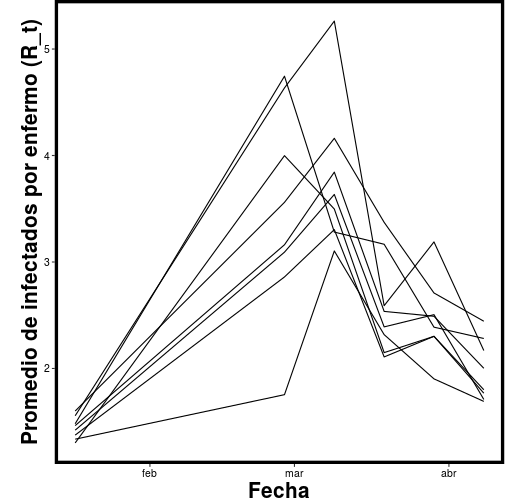
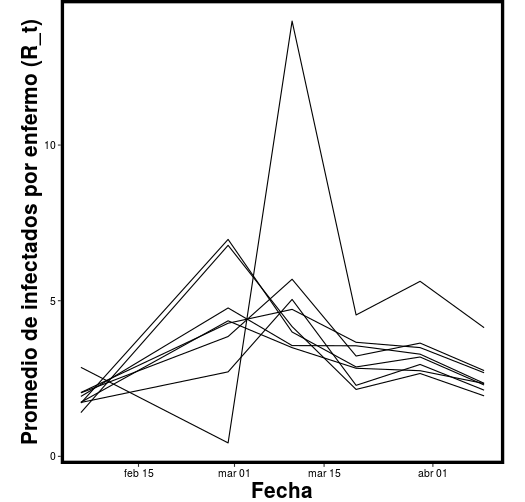
Actualización 2020-05-03 Centinela

diff --git a/etiquetas/casos/index.html b/etiquetas/casos/index.html
@@ -421,9 +421,9 @@
           <div class="col-12 col-md-6 my-auto my-auto">
             <h3>¿Cuántos casos hay en México? (Centinela)</h3>
             <p class="lead">
-              <p>El sistema Centinela es similar a una encuesta y permite estimar el número de casos reales del COVID-19 aún sin diagnosticar a todos los contagiados. Desafortunadamente, sólo tenemos estimados oficiales hasta <a href="https://youtu.be/So48LCI6tSY?t=1349" target="_blank"> la semana epidemiológica 14 (3 de abril)</a>. Como la epidemia sigue creciendo, el número de casos actual debe ser mayor.</p>
+              <p>El número real de casos de COVID-19 es un parámetro esencial para determinar el riesgo de contagio de cada persona. El sistema Centinela es similar a una encuesta y permite estimar el número de casos reales aún sin diagnosticar a todos los contagiados. Desafortunadamente, sólo tenemos estimados oficiales hasta <a href="https://youtu.be/c-_kVkBFipw?t=3052" target="_blank"> la semana epidemiológica 15 (10 de abril)</a>. Como la epidemia sigue creciendo, el número de casos actual debe ser mayor.</p>
 <p>La Secretaría de Salud (SSA) no publica todos los elementos necesarios para reproducir sus estimados, así que hago algunas simplificaciones y llego a un resultado similar. Esto nos permite producir estimados en fechas más recientes.</p>
-<p>Finalmente, podemos combinar los números del sistema Centinela con un <a href="../../casos#sir">modelo SEIR</a> para corregir por el retraso en la detección de casos y estimar el número de real casos el día de hoy. Como los números de la SSA son más antiguos, no podemos proyectar el número de casos hasta el día de hoy. Todos los valores en esta gráfica se calculan <a href="https://github.com/coronamex/visualizando/blob/master/casos/centinela_preliminar.r" target="_blank">con este código</a>, y los valores numéricos se pueden <a href="https://raw.githubusercontent.com/coronamex/visualizando/master/estimados/centinela_seir_estimados.csv" target="blank">descargar</a>.</p>
+<p>Finalmente, podemos combinar los números del sistema Centinela con un <a href="../../casos#sir">modelo SEIR</a> para corregir por el retraso en la detección de casos y estimar el número de real casos el día de hoy. Como los números de la SSA son más antiguos, las proyecciones basados en estos números son menos confiables. Todos los valores en esta gráfica se calculan <a href="https://github.com/coronamex/visualizando/blob/master/casos/centinela_preliminar.r" target="_blank">con este código</a>, y los valores numéricos se pueden <a href="https://raw.githubusercontent.com/coronamex/visualizando/master/estimados/centinela_seir_estimados.csv" target="blank">descargar</a>.</p>
 <p>Esta gráfica se actualiza unas horas después que el resto del sitio.</p>
             </p>
               
@@ -495,7 +495,7 @@
           <div class="col-12 col-md-6 my-auto my-auto">
             <h3>Cada zona metropolitana tiene su propia epidemia</h3>
             <p class="lead">
-              <p>Debido a su densidad poblacional y conexiones internas, las <a href="https://www.inegi.org.mx/app/biblioteca/ficha.html?upc=702825006792" target="_blank">zonas metropolitanas</a> son las regiones donde el COVID-19 puede avanzar con mayor facilidad, y cada una de estas regiones tiene una epidemia con características propias.</p> <p>Esta gráfica muestra el número de casos que mostraron síntomas en cada fecha para las nueve zonas metropolitanas más afectadas de México (excluyendo al <a href="../../municipios#vm_casos">Valle de México</a>).</p> <p>Cada zona metropolitana ha seguido su propia trayectoria. En Baja California, tanto Mexicali como Tijuana parecen haber superado el punto más crítico (consistente con la <a href="../../estados#r_efectiva">R efectiva</a>), probablemente Culiacán también ha superado este punto pero es muy pronto para estar seguros. Monterrey y Puebla han mostrado rebrotes importantes, mientras que Cancún, Mérida, Veracruz y Villahermosa siguen en fase de crecimiento.</p>
+              <p>Debido a su densidad poblacional y conexiones internas, las <a href="https://www.inegi.org.mx/app/biblioteca/ficha.html?upc=702825006792" target="_blank">zonas metropolitanas</a> son las regiones donde el COVID-19 puede avanzar con mayor facilidad, y cada una de estas regiones tiene una epidemia con características propias.</p> <p>Esta gráfica muestra el número de casos que mostraron síntomas en cada fecha para las nueve zonas metropolitanas más afectadas de México (excluyendo al <a href="../../municipios#vm_casos">Valle de México</a>).</p> <p>Cada zona metropolitana ha seguido su propia trayectoria. En Baja California, tanto Mexicali como Tijuana parecen haber superado el punto más crítico (consistente con la <a href="../../estados#r_efectiva">R efectiva</a>). En Culiacán el número de nuevos casos parece estabilizarse sin descender. Monterrey y Puebla han mostrado rebrotes importantes, mientras que Cancún, Mérida, Veracruz y Villahermosa siguen en fase de crecimiento.</p>
             </p>
               
           </div>

diff --git a/secciones/casos/index.html b/secciones/casos/index.html
@@ -375,9 +375,9 @@
           <div class="col-12 col-md-6 my-auto my-auto">
             <h3>¿Cuántos casos hay en México? (Centinela)</h3>
             <p class="lead">
-              <p>El sistema Centinela es similar a una encuesta y permite estimar el número de casos reales del COVID-19 aún sin diagnosticar a todos los contagiados. Desafortunadamente, sólo tenemos estimados oficiales hasta <a href="https://youtu.be/So48LCI6tSY?t=1349" target="_blank"> la semana epidemiológica 14 (3 de abril)</a>. Como la epidemia sigue creciendo, el número de casos actual debe ser mayor.</p>
+              <p>El número real de casos de COVID-19 es un parámetro esencial para determinar el riesgo de contagio de cada persona. El sistema Centinela es similar a una encuesta y permite estimar el número de casos reales aún sin diagnosticar a todos los contagiados. Desafortunadamente, sólo tenemos estimados oficiales hasta <a href="https://youtu.be/c-_kVkBFipw?t=3052" target="_blank"> la semana epidemiológica 15 (10 de abril)</a>. Como la epidemia sigue creciendo, el número de casos actual debe ser mayor.</p>
 <p>La Secretaría de Salud (SSA) no publica todos los elementos necesarios para reproducir sus estimados, así que hago algunas simplificaciones y llego a un resultado similar. Esto nos permite producir estimados en fechas más recientes.</p>
-<p>Finalmente, podemos combinar los números del sistema Centinela con un <a href="../../casos#sir">modelo SEIR</a> para corregir por el retraso en la detección de casos y estimar el número de real casos el día de hoy. Como los números de la SSA son más antiguos, no podemos proyectar el número de casos hasta el día de hoy. Todos los valores en esta gráfica se calculan <a href="https://github.com/coronamex/visualizando/blob/master/casos/centinela_preliminar.r" target="_blank">con este código</a>, y los valores numéricos se pueden <a href="https://raw.githubusercontent.com/coronamex/visualizando/master/estimados/centinela_seir_estimados.csv" target="blank">descargar</a>.</p>
+<p>Finalmente, podemos combinar los números del sistema Centinela con un <a href="../../casos#sir">modelo SEIR</a> para corregir por el retraso en la detección de casos y estimar el número de real casos el día de hoy. Como los números de la SSA son más antiguos, las proyecciones basados en estos números son menos confiables. Todos los valores en esta gráfica se calculan <a href="https://github.com/coronamex/visualizando/blob/master/casos/centinela_preliminar.r" target="_blank">con este código</a>, y los valores numéricos se pueden <a href="https://raw.githubusercontent.com/coronamex/visualizando/master/estimados/centinela_seir_estimados.csv" target="blank">descargar</a>.</p>
 <p>Esta gráfica se actualiza unas horas después que el resto del sitio.</p>
             </p>
               
@@ -426,7 +426,7 @@
           <div class="col-12 col-md-6 my-auto my-auto">
             <h3>Cada zona metropolitana tiene su propia epidemia</h3>
             <p class="lead">
-              <p>Debido a su densidad poblacional y conexiones internas, las <a href="https://www.inegi.org.mx/app/biblioteca/ficha.html?upc=702825006792" target="_blank">zonas metropolitanas</a> son las regiones donde el COVID-19 puede avanzar con mayor facilidad, y cada una de estas regiones tiene una epidemia con características propias.</p> <p>Esta gráfica muestra el número de casos que mostraron síntomas en cada fecha para las nueve zonas metropolitanas más afectadas de México (excluyendo al <a href="../../municipios#vm_casos">Valle de México</a>).</p> <p>Cada zona metropolitana ha seguido su propia trayectoria. En Baja California, tanto Mexicali como Tijuana parecen haber superado el punto más crítico (consistente con la <a href="../../estados#r_efectiva">R efectiva</a>), probablemente Culiacán también ha superado este punto pero es muy pronto para estar seguros. Monterrey y Puebla han mostrado rebrotes importantes, mientras que Cancún, Mérida, Veracruz y Villahermosa siguen en fase de crecimiento.</p>
+              <p>Debido a su densidad poblacional y conexiones internas, las <a href="https://www.inegi.org.mx/app/biblioteca/ficha.html?upc=702825006792" target="_blank">zonas metropolitanas</a> son las regiones donde el COVID-19 puede avanzar con mayor facilidad, y cada una de estas regiones tiene una epidemia con características propias.</p> <p>Esta gráfica muestra el número de casos que mostraron síntomas en cada fecha para las nueve zonas metropolitanas más afectadas de México (excluyendo al <a href="../../municipios#vm_casos">Valle de México</a>).</p> <p>Cada zona metropolitana ha seguido su propia trayectoria. En Baja California, tanto Mexicali como Tijuana parecen haber superado el punto más crítico (consistente con la <a href="../../estados#r_efectiva">R efectiva</a>). En Culiacán el número de nuevos casos parece estabilizarse sin descender. Monterrey y Puebla han mostrado rebrotes importantes, mientras que Cancún, Mérida, Veracruz y Villahermosa siguen en fase de crecimiento.</p>
             </p>
               
           </div>

diff --git a/index.html b/index.html
@@ -406,9 +406,9 @@
           <div class="col-12 col-md-6 my-auto my-auto">
             <h3>¿Cuántos casos hay en México? (Centinela)</h3>
             <p class="lead">
-              <p>El sistema Centinela es similar a una encuesta y permite estimar el número de casos reales del COVID-19 aún sin diagnosticar a todos los contagiados. Desafortunadamente, sólo tenemos estimados oficiales hasta <a href="https://youtu.be/So48LCI6tSY?t=1349" target="_blank"> la semana epidemiológica 14 (3 de abril)</a>. Como la epidemia sigue creciendo, el número de casos actual debe ser mayor.</p>
+              <p>El número real de casos de COVID-19 es un parámetro esencial para determinar el riesgo de contagio de cada persona. El sistema Centinela es similar a una encuesta y permite estimar el número de casos reales aún sin diagnosticar a todos los contagiados. Desafortunadamente, sólo tenemos estimados oficiales hasta <a href="https://youtu.be/c-_kVkBFipw?t=3052" target="_blank"> la semana epidemiológica 15 (10 de abril)</a>. Como la epidemia sigue creciendo, el número de casos actual debe ser mayor.</p>
 <p>La Secretaría de Salud (SSA) no publica todos los elementos necesarios para reproducir sus estimados, así que hago algunas simplificaciones y llego a un resultado similar. Esto nos permite producir estimados en fechas más recientes.</p>
-<p>Finalmente, podemos combinar los números del sistema Centinela con un <a href="./casos#sir">modelo SEIR</a> para corregir por el retraso en la detección de casos y estimar el número de real casos el día de hoy. Como los números de la SSA son más antiguos, no podemos proyectar el número de casos hasta el día de hoy. Todos los valores en esta gráfica se calculan <a href="https://github.com/coronamex/visualizando/blob/master/casos/centinela_preliminar.r" target="_blank">con este código</a>, y los valores numéricos se pueden <a href="https://raw.githubusercontent.com/coronamex/visualizando/master/estimados/centinela_seir_estimados.csv" target="blank">descargar</a>.</p>
+<p>Finalmente, podemos combinar los números del sistema Centinela con un <a href="./casos#sir">modelo SEIR</a> para corregir por el retraso en la detección de casos y estimar el número de real casos el día de hoy. Como los números de la SSA son más antiguos, las proyecciones basados en estos números son menos confiables. Todos los valores en esta gráfica se calculan <a href="https://github.com/coronamex/visualizando/blob/master/casos/centinela_preliminar.r" target="_blank">con este código</a>, y los valores numéricos se pueden <a href="https://raw.githubusercontent.com/coronamex/visualizando/master/estimados/centinela_seir_estimados.csv" target="blank">descargar</a>.</p>
 <p>Esta gráfica se actualiza unas horas después que el resto del sitio.</p>
             </p>
               
@@ -457,7 +457,7 @@
           <div class="col-12 col-md-6 my-auto my-auto">
             <h3>Cada zona metropolitana tiene su propia epidemia</h3>
             <p class="lead">
-              <p>Debido a su densidad poblacional y conexiones internas, las <a href="https://www.inegi.org.mx/app/biblioteca/ficha.html?upc=702825006792" target="_blank">zonas metropolitanas</a> son las regiones donde el COVID-19 puede avanzar con mayor facilidad, y cada una de estas regiones tiene una epidemia con características propias.</p> <p>Esta gráfica muestra el número de casos que mostraron síntomas en cada fecha para las nueve zonas metropolitanas más afectadas de México (excluyendo al <a href="./municipios#vm_casos">Valle de México</a>).</p> <p>Cada zona metropolitana ha seguido su propia trayectoria. En Baja California, tanto Mexicali como Tijuana parecen haber superado el punto más crítico (consistente con la <a href="./estados#r_efectiva">R efectiva</a>), probablemente Culiacán también ha superado este punto pero es muy pronto para estar seguros. Monterrey y Puebla han mostrado rebrotes importantes, mientras que Cancún, Mérida, Veracruz y Villahermosa siguen en fase de crecimiento.</p>
+              <p>Debido a su densidad poblacional y conexiones internas, las <a href="https://www.inegi.org.mx/app/biblioteca/ficha.html?upc=702825006792" target="_blank">zonas metropolitanas</a> son las regiones donde el COVID-19 puede avanzar con mayor facilidad, y cada una de estas regiones tiene una epidemia con características propias.</p> <p>Esta gráfica muestra el número de casos que mostraron síntomas en cada fecha para las nueve zonas metropolitanas más afectadas de México (excluyendo al <a href="./municipios#vm_casos">Valle de México</a>).</p> <p>Cada zona metropolitana ha seguido su propia trayectoria. En Baja California, tanto Mexicali como Tijuana parecen haber superado el punto más crítico (consistente con la <a href="./estados#r_efectiva">R efectiva</a>). En Culiacán el número de nuevos casos parece estabilizarse sin descender. Monterrey y Puebla han mostrado rebrotes importantes, mientras que Cancún, Mérida, Veracruz y Villahermosa siguen en fase de crecimiento.</p>
             </p>
               
           </div>

diff --git a/etiquetas/centinela/index.html b/etiquetas/centinela/index.html
@@ -328,9 +328,9 @@
           <div class="col-12 col-md-6 my-auto my-auto">
             <h3>¿Cuántos casos hay en México? (Centinela)</h3>
             <p class="lead">
-              <p>El sistema Centinela es similar a una encuesta y permite estimar el número de casos reales del COVID-19 aún sin diagnosticar a todos los contagiados. Desafortunadamente, sólo tenemos estimados oficiales hasta <a href="https://youtu.be/So48LCI6tSY?t=1349" target="_blank"> la semana epidemiológica 14 (3 de abril)</a>. Como la epidemia sigue creciendo, el número de casos actual debe ser mayor.</p>
+              <p>El número real de casos de COVID-19 es un parámetro esencial para determinar el riesgo de contagio de cada persona. El sistema Centinela es similar a una encuesta y permite estimar el número de casos reales aún sin diagnosticar a todos los contagiados. Desafortunadamente, sólo tenemos estimados oficiales hasta <a href="https://youtu.be/c-_kVkBFipw?t=3052" target="_blank"> la semana epidemiológica 15 (10 de abril)</a>. Como la epidemia sigue creciendo, el número de casos actual debe ser mayor.</p>
 <p>La Secretaría de Salud (SSA) no publica todos los elementos necesarios para reproducir sus estimados, así que hago algunas simplificaciones y llego a un resultado similar. Esto nos permite producir estimados en fechas más recientes.</p>
-<p>Finalmente, podemos combinar los números del sistema Centinela con un <a href="../../casos#sir">modelo SEIR</a> para corregir por el retraso en la detección de casos y estimar el número de real casos el día de hoy. Como los números de la SSA son más antiguos, no podemos proyectar el número de casos hasta el día de hoy. Todos los valores en esta gráfica se calculan <a href="https://github.com/coronamex/visualizando/blob/master/casos/centinela_preliminar.r" target="_blank">con este código</a>, y los valores numéricos se pueden <a href="https://raw.githubusercontent.com/coronamex/visualizando/master/estimados/centinela_seir_estimados.csv" target="blank">descargar</a>.</p>
+<p>Finalmente, podemos combinar los números del sistema Centinela con un <a href="../../casos#sir">modelo SEIR</a> para corregir por el retraso en la detección de casos y estimar el número de real casos el día de hoy. Como los números de la SSA son más antiguos, las proyecciones basados en estos números son menos confiables. Todos los valores en esta gráfica se calculan <a href="https://github.com/coronamex/visualizando/blob/master/casos/centinela_preliminar.r" target="_blank">con este código</a>, y los valores numéricos se pueden <a href="https://raw.githubusercontent.com/coronamex/visualizando/master/estimados/centinela_seir_estimados.csv" target="blank">descargar</a>.</p>
 <p>Esta gráfica se actualiza unas horas después que el resto del sitio.</p>
             </p>
               

diff --git a/etiquetas/estimado/index.html b/etiquetas/estimado/index.html
@@ -375,9 +375,9 @@
           <div class="col-12 col-md-6 my-auto my-auto">
             <h3>¿Cuántos casos hay en México? (Centinela)</h3>
             <p class="lead">
-              <p>El sistema Centinela es similar a una encuesta y permite estimar el número de casos reales del COVID-19 aún sin diagnosticar a todos los contagiados. Desafortunadamente, sólo tenemos estimados oficiales hasta <a href="https://youtu.be/So48LCI6tSY?t=1349" target="_blank"> la semana epidemiológica 14 (3 de abril)</a>. Como la epidemia sigue creciendo, el número de casos actual debe ser mayor.</p>
+              <p>El número real de casos de COVID-19 es un parámetro esencial para determinar el riesgo de contagio de cada persona. El sistema Centinela es similar a una encuesta y permite estimar el número de casos reales aún sin diagnosticar a todos los contagiados. Desafortunadamente, sólo tenemos estimados oficiales hasta <a href="https://youtu.be/c-_kVkBFipw?t=3052" target="_blank"> la semana epidemiológica 15 (10 de abril)</a>. Como la epidemia sigue creciendo, el número de casos actual debe ser mayor.</p>
 <p>La Secretaría de Salud (SSA) no publica todos los elementos necesarios para reproducir sus estimados, así que hago algunas simplificaciones y llego a un resultado similar. Esto nos permite producir estimados en fechas más recientes.</p>
-<p>Finalmente, podemos combinar los números del sistema Centinela con un <a href="../../casos#sir">modelo SEIR</a> para corregir por el retraso en la detección de casos y estimar el número de real casos el día de hoy. Como los números de la SSA son más antiguos, no podemos proyectar el número de casos hasta el día de hoy. Todos los valores en esta gráfica se calculan <a href="https://github.com/coronamex/visualizando/blob/master/casos/centinela_preliminar.r" target="_blank">con este código</a>, y los valores numéricos se pueden <a href="https://raw.githubusercontent.com/coronamex/visualizando/master/estimados/centinela_seir_estimados.csv" target="blank">descargar</a>.</p>
+<p>Finalmente, podemos combinar los números del sistema Centinela con un <a href="../../casos#sir">modelo SEIR</a> para corregir por el retraso en la detección de casos y estimar el número de real casos el día de hoy. Como los números de la SSA son más antiguos, las proyecciones basados en estos números son menos confiables. Todos los valores en esta gráfica se calculan <a href="https://github.com/coronamex/visualizando/blob/master/casos/centinela_preliminar.r" target="_blank">con este código</a>, y los valores numéricos se pueden <a href="https://raw.githubusercontent.com/coronamex/visualizando/master/estimados/centinela_seir_estimados.csv" target="blank">descargar</a>.</p>
 <p>Esta gráfica se actualiza unas horas después que el resto del sitio.</p>
             </p>
               

diff --git a/etiquetas/nacional/index.html b/etiquetas/nacional/index.html
@@ -490,9 +490,9 @@
           <div class="col-12 col-md-6 my-auto my-auto">
             <h3>¿Cuántos casos hay en México? (Centinela)</h3>
             <p class="lead">
-              <p>El sistema Centinela es similar a una encuesta y permite estimar el número de casos reales del COVID-19 aún sin diagnosticar a todos los contagiados. Desafortunadamente, sólo tenemos estimados oficiales hasta <a href="https://youtu.be/So48LCI6tSY?t=1349" target="_blank"> la semana epidemiológica 14 (3 de abril)</a>. Como la epidemia sigue creciendo, el número de casos actual debe ser mayor.</p>
+              <p>El número real de casos de COVID-19 es un parámetro esencial para determinar el riesgo de contagio de cada persona. El sistema Centinela es similar a una encuesta y permite estimar el número de casos reales aún sin diagnosticar a todos los contagiados. Desafortunadamente, sólo tenemos estimados oficiales hasta <a href="https://youtu.be/c-_kVkBFipw?t=3052" target="_blank"> la semana epidemiológica 15 (10 de abril)</a>. Como la epidemia sigue creciendo, el número de casos actual debe ser mayor.</p>
 <p>La Secretaría de Salud (SSA) no publica todos los elementos necesarios para reproducir sus estimados, así que hago algunas simplificaciones y llego a un resultado similar. Esto nos permite producir estimados en fechas más recientes.</p>
-<p>Finalmente, podemos combinar los números del sistema Centinela con un <a href="../../casos#sir">modelo SEIR</a> para corregir por el retraso en la detección de casos y estimar el número de real casos el día de hoy. Como los números de la SSA son más antiguos, no podemos proyectar el número de casos hasta el día de hoy. Todos los valores en esta gráfica se calculan <a href="https://github.com/coronamex/visualizando/blob/master/casos/centinela_preliminar.r" target="_blank">con este código</a>, y los valores numéricos se pueden <a href="https://raw.githubusercontent.com/coronamex/visualizando/master/estimados/centinela_seir_estimados.csv" target="blank">descargar</a>.</p>
+<p>Finalmente, podemos combinar los números del sistema Centinela con un <a href="../../casos#sir">modelo SEIR</a> para corregir por el retraso en la detección de casos y estimar el número de real casos el día de hoy. Como los números de la SSA son más antiguos, las proyecciones basados en estos números son menos confiables. Todos los valores en esta gráfica se calculan <a href="https://github.com/coronamex/visualizando/blob/master/casos/centinela_preliminar.r" target="_blank">con este código</a>, y los valores numéricos se pueden <a href="https://raw.githubusercontent.com/coronamex/visualizando/master/estimados/centinela_seir_estimados.csv" target="blank">descargar</a>.</p>
 <p>Esta gráfica se actualiza unas horas después que el resto del sitio.</p>
             </p>
               

diff --git a/etiquetas/sir/index.html b/etiquetas/sir/index.html
@@ -352,9 +352,9 @@
           <div class="col-12 col-md-6 my-auto my-auto">
             <h3>¿Cuántos casos hay en México? (Centinela)</h3>
             <p class="lead">
-              <p>El sistema Centinela es similar a una encuesta y permite estimar el número de casos reales del COVID-19 aún sin diagnosticar a todos los contagiados. Desafortunadamente, sólo tenemos estimados oficiales hasta <a href="https://youtu.be/So48LCI6tSY?t=1349" target="_blank"> la semana epidemiológica 14 (3 de abril)</a>. Como la epidemia sigue creciendo, el número de casos actual debe ser mayor.</p>
+              <p>El número real de casos de COVID-19 es un parámetro esencial para determinar el riesgo de contagio de cada persona. El sistema Centinela es similar a una encuesta y permite estimar el número de casos reales aún sin diagnosticar a todos los contagiados. Desafortunadamente, sólo tenemos estimados oficiales hasta <a href="https://youtu.be/c-_kVkBFipw?t=3052" target="_blank"> la semana epidemiológica 15 (10 de abril)</a>. Como la epidemia sigue creciendo, el número de casos actual debe ser mayor.</p>
 <p>La Secretaría de Salud (SSA) no publica todos los elementos necesarios para reproducir sus estimados, así que hago algunas simplificaciones y llego a un resultado similar. Esto nos permite producir estimados en fechas más recientes.</p>
-<p>Finalmente, podemos combinar los números del sistema Centinela con un <a href="../../casos#sir">modelo SEIR</a> para corregir por el retraso en la detección de casos y estimar el número de real casos el día de hoy. Como los números de la SSA son más antiguos, no podemos proyectar el número de casos hasta el día de hoy. Todos los valores en esta gráfica se calculan <a href="https://github.com/coronamex/visualizando/blob/master/casos/centinela_preliminar.r" target="_blank">con este código</a>, y los valores numéricos se pueden <a href="https://raw.githubusercontent.com/coronamex/visualizando/master/estimados/centinela_seir_estimados.csv" target="blank">descargar</a>.</p>
+<p>Finalmente, podemos combinar los números del sistema Centinela con un <a href="../../casos#sir">modelo SEIR</a> para corregir por el retraso en la detección de casos y estimar el número de real casos el día de hoy. Como los números de la SSA son más antiguos, las proyecciones basados en estos números son menos confiables. Todos los valores en esta gráfica se calculan <a href="https://github.com/coronamex/visualizando/blob/master/casos/centinela_preliminar.r" target="_blank">con este código</a>, y los valores numéricos se pueden <a href="https://raw.githubusercontent.com/coronamex/visualizando/master/estimados/centinela_seir_estimados.csv" target="blank">descargar</a>.</p>
 <p>Esta gráfica se actualiza unas horas después que el resto del sitio.</p>
             </p>
               

diff --git a/etiquetas/síntomas/index.html b/etiquetas/síntomas/index.html
@@ -375,9 +375,9 @@
           <div class="col-12 col-md-6 my-auto my-auto">
             <h3>¿Cuántos casos hay en México? (Centinela)</h3>
             <p class="lead">
-              <p>El sistema Centinela es similar a una encuesta y permite estimar el número de casos reales del COVID-19 aún sin diagnosticar a todos los contagiados. Desafortunadamente, sólo tenemos estimados oficiales hasta <a href="https://youtu.be/So48LCI6tSY?t=1349" target="_blank"> la semana epidemiológica 14 (3 de abril)</a>. Como la epidemia sigue creciendo, el número de casos actual debe ser mayor.</p>
+              <p>El número real de casos de COVID-19 es un parámetro esencial para determinar el riesgo de contagio de cada persona. El sistema Centinela es similar a una encuesta y permite estimar el número de casos reales aún sin diagnosticar a todos los contagiados. Desafortunadamente, sólo tenemos estimados oficiales hasta <a href="https://youtu.be/c-_kVkBFipw?t=3052" target="_blank"> la semana epidemiológica 15 (10 de abril)</a>. Como la epidemia sigue creciendo, el número de casos actual debe ser mayor.</p>
 <p>La Secretaría de Salud (SSA) no publica todos los elementos necesarios para reproducir sus estimados, así que hago algunas simplificaciones y llego a un resultado similar. Esto nos permite producir estimados en fechas más recientes.</p>
-<p>Finalmente, podemos combinar los números del sistema Centinela con un <a href="../../casos#sir">modelo SEIR</a> para corregir por el retraso en la detección de casos y estimar el número de real casos el día de hoy. Como los números de la SSA son más antiguos, no podemos proyectar el número de casos hasta el día de hoy. Todos los valores en esta gráfica se calculan <a href="https://github.com/coronamex/visualizando/blob/master/casos/centinela_preliminar.r" target="_blank">con este código</a>, y los valores numéricos se pueden <a href="https://raw.githubusercontent.com/coronamex/visualizando/master/estimados/centinela_seir_estimados.csv" target="blank">descargar</a>.</p>
+<p>Finalmente, podemos combinar los números del sistema Centinela con un <a href="../../casos#sir">modelo SEIR</a> para corregir por el retraso en la detección de casos y estimar el número de real casos el día de hoy. Como los números de la SSA son más antiguos, las proyecciones basados en estos números son menos confiables. Todos los valores en esta gráfica se calculan <a href="https://github.com/coronamex/visualizando/blob/master/casos/centinela_preliminar.r" target="_blank">con este código</a>, y los valores numéricos se pueden <a href="https://raw.githubusercontent.com/coronamex/visualizando/master/estimados/centinela_seir_estimados.csv" target="blank">descargar</a>.</p>
 <p>Esta gráfica se actualiza unas horas después que el resto del sitio.</p>
             </p>
               

diff --git a/secciones/principal/index.html b/secciones/principal/index.html
@@ -443,9 +443,9 @@
           <div class="col-12 col-md-6 my-auto my-auto">
             <h3>¿Cuántos casos hay en México? (Centinela)</h3>
             <p class="lead">
-              <p>El sistema Centinela es similar a una encuesta y permite estimar el número de casos reales del COVID-19 aún sin diagnosticar a todos los contagiados. Desafortunadamente, sólo tenemos estimados oficiales hasta <a href="https://youtu.be/So48LCI6tSY?t=1349" target="_blank"> la semana epidemiológica 14 (3 de abril)</a>. Como la epidemia sigue creciendo, el número de casos actual debe ser mayor.</p>
+              <p>El número real de casos de COVID-19 es un parámetro esencial para determinar el riesgo de contagio de cada persona. El sistema Centinela es similar a una encuesta y permite estimar el número de casos reales aún sin diagnosticar a todos los contagiados. Desafortunadamente, sólo tenemos estimados oficiales hasta <a href="https://youtu.be/c-_kVkBFipw?t=3052" target="_blank"> la semana epidemiológica 15 (10 de abril)</a>. Como la epidemia sigue creciendo, el número de casos actual debe ser mayor.</p>
 <p>La Secretaría de Salud (SSA) no publica todos los elementos necesarios para reproducir sus estimados, así que hago algunas simplificaciones y llego a un resultado similar. Esto nos permite producir estimados en fechas más recientes.</p>
-<p>Finalmente, podemos combinar los números del sistema Centinela con un <a href="../../casos#sir">modelo SEIR</a> para corregir por el retraso en la detección de casos y estimar el número de real casos el día de hoy. Como los números de la SSA son más antiguos, no podemos proyectar el número de casos hasta el día de hoy. Todos los valores en esta gráfica se calculan <a href="https://github.com/coronamex/visualizando/blob/master/casos/centinela_preliminar.r" target="_blank">con este código</a>, y los valores numéricos se pueden <a href="https://raw.githubusercontent.com/coronamex/visualizando/master/estimados/centinela_seir_estimados.csv" target="blank">descargar</a>.</p>
+<p>Finalmente, podemos combinar los números del sistema Centinela con un <a href="../../casos#sir">modelo SEIR</a> para corregir por el retraso en la detección de casos y estimar el número de real casos el día de hoy. Como los números de la SSA son más antiguos, las proyecciones basados en estos números son menos confiables. Todos los valores en esta gráfica se calculan <a href="https://github.com/coronamex/visualizando/blob/master/casos/centinela_preliminar.r" target="_blank">con este código</a>, y los valores numéricos se pueden <a href="https://raw.githubusercontent.com/coronamex/visualizando/master/estimados/centinela_seir_estimados.csv" target="blank">descargar</a>.</p>
 <p>Esta gráfica se actualiza unas horas después que el resto del sitio.</p>
             </p>
               

diff --git a/casos/index.html b/casos/index.html
@@ -375,9 +375,9 @@
           <div class="col-12 col-md-6 my-auto my-auto">
             <h3>¿Cuántos casos hay en México? (Centinela)</h3>
             <p class="lead">
-              <p>El sistema Centinela es similar a una encuesta y permite estimar el número de casos reales del COVID-19 aún sin diagnosticar a todos los contagiados. Desafortunadamente, sólo tenemos estimados oficiales hasta <a href="https://youtu.be/So48LCI6tSY?t=1349" target="_blank"> la semana epidemiológica 14 (3 de abril)</a>. Como la epidemia sigue creciendo, el número de casos actual debe ser mayor.</p>
+              <p>El número real de casos de COVID-19 es un parámetro esencial para determinar el riesgo de contagio de cada persona. El sistema Centinela es similar a una encuesta y permite estimar el número de casos reales aún sin diagnosticar a todos los contagiados. Desafortunadamente, sólo tenemos estimados oficiales hasta <a href="https://youtu.be/c-_kVkBFipw?t=3052" target="_blank"> la semana epidemiológica 15 (10 de abril)</a>. Como la epidemia sigue creciendo, el número de casos actual debe ser mayor.</p>
 <p>La Secretaría de Salud (SSA) no publica todos los elementos necesarios para reproducir sus estimados, así que hago algunas simplificaciones y llego a un resultado similar. Esto nos permite producir estimados en fechas más recientes.</p>
-<p>Finalmente, podemos combinar los números del sistema Centinela con un <a href="../casos#sir">modelo SEIR</a> para corregir por el retraso en la detección de casos y estimar el número de real casos el día de hoy. Como los números de la SSA son más antiguos, no podemos proyectar el número de casos hasta el día de hoy. Todos los valores en esta gráfica se calculan <a href="https://github.com/coronamex/visualizando/blob/master/casos/centinela_preliminar.r" target="_blank">con este código</a>, y los valores numéricos se pueden <a href="https://raw.githubusercontent.com/coronamex/visualizando/master/estimados/centinela_seir_estimados.csv" target="blank">descargar</a>.</p>
+<p>Finalmente, podemos combinar los números del sistema Centinela con un <a href="../casos#sir">modelo SEIR</a> para corregir por el retraso en la detección de casos y estimar el número de real casos el día de hoy. Como los números de la SSA son más antiguos, las proyecciones basados en estos números son menos confiables. Todos los valores en esta gráfica se calculan <a href="https://github.com/coronamex/visualizando/blob/master/casos/centinela_preliminar.r" target="_blank">con este código</a>, y los valores numéricos se pueden <a href="https://raw.githubusercontent.com/coronamex/visualizando/master/estimados/centinela_seir_estimados.csv" target="blank">descargar</a>.</p>
 <p>Esta gráfica se actualiza unas horas después que el resto del sitio.</p>
             </p>
               

diff --git a/casos/sir_centinela/index.html b/casos/sir_centinela/index.html
@@ -321,9 +321,9 @@
         <div class="col-12 col-md-6 my-auto my-auto">
           <h2>¿Cuántos casos hay en México? (Centinela)</h2>
           <p class="lead">
-            <p>El sistema Centinela es similar a una encuesta y permite estimar el número de casos reales del COVID-19 aún sin diagnosticar a todos los contagiados. Desafortunadamente, sólo tenemos estimados oficiales hasta <a href="https://youtu.be/So48LCI6tSY?t=1349" target="_blank"> la semana epidemiológica 14 (3 de abril)</a>. Como la epidemia sigue creciendo, el número de casos actual debe ser mayor.</p>
+            <p>El número real de casos de COVID-19 es un parámetro esencial para determinar el riesgo de contagio de cada persona. El sistema Centinela es similar a una encuesta y permite estimar el número de casos reales aún sin diagnosticar a todos los contagiados. Desafortunadamente, sólo tenemos estimados oficiales hasta <a href="https://youtu.be/c-_kVkBFipw?t=3052" target="_blank"> la semana epidemiológica 15 (10 de abril)</a>. Como la epidemia sigue creciendo, el número de casos actual debe ser mayor.</p>
 <p>La Secretaría de Salud (SSA) no publica todos los elementos necesarios para reproducir sus estimados, así que hago algunas simplificaciones y llego a un resultado similar. Esto nos permite producir estimados en fechas más recientes.</p>
-<p>Finalmente, podemos combinar los números del sistema Centinela con un <a href="../../casos#sir">modelo SEIR</a> para corregir por el retraso en la detección de casos y estimar el número de real casos el día de hoy. Como los números de la SSA son más antiguos, no podemos proyectar el número de casos hasta el día de hoy. Todos los valores en esta gráfica se calculan <a href="https://github.com/coronamex/visualizando/blob/master/casos/centinela_preliminar.r" target="_blank">con este código</a>, y los valores numéricos se pueden <a href="https://raw.githubusercontent.com/coronamex/visualizando/master/estimados/centinela_seir_estimados.csv" target="blank">descargar</a>.</p>
+<p>Finalmente, podemos combinar los números del sistema Centinela con un <a href="../../casos#sir">modelo SEIR</a> para corregir por el retraso en la detección de casos y estimar el número de real casos el día de hoy. Como los números de la SSA son más antiguos, las proyecciones basados en estos números son menos confiables. Todos los valores en esta gráfica se calculan <a href="https://github.com/coronamex/visualizando/blob/master/casos/centinela_preliminar.r" target="_blank">con este código</a>, y los valores numéricos se pueden <a href="https://raw.githubusercontent.com/coronamex/visualizando/master/estimados/centinela_seir_estimados.csv" target="blank">descargar</a>.</p>
 <p>Esta gráfica se actualiza unas horas después que el resto del sitio.</p>
           </p>
             

diff --git a/etiquetas/municipios/index.html b/etiquetas/municipios/index.html
@@ -353,7 +353,7 @@
           <div class="col-12 col-md-6 my-auto my-auto">
             <h3>Cada zona metropolitana tiene su propia epidemia</h3>
             <p class="lead">
-              <p>Debido a su densidad poblacional y conexiones internas, las <a href="https://www.inegi.org.mx/app/biblioteca/ficha.html?upc=702825006792" target="_blank">zonas metropolitanas</a> son las regiones donde el COVID-19 puede avanzar con mayor facilidad, y cada una de estas regiones tiene una epidemia con características propias.</p> <p>Esta gráfica muestra el número de casos que mostraron síntomas en cada fecha para las nueve zonas metropolitanas más afectadas de México (excluyendo al <a href="../../municipios#vm_casos">Valle de México</a>).</p> <p>Cada zona metropolitana ha seguido su propia trayectoria. En Baja California, tanto Mexicali como Tijuana parecen haber superado el punto más crítico (consistente con la <a href="../../estados#r_efectiva">R efectiva</a>), probablemente Culiacán también ha superado este punto pero es muy pronto para estar seguros. Monterrey y Puebla han mostrado rebrotes importantes, mientras que Cancún, Mérida, Veracruz y Villahermosa siguen en fase de crecimiento.</p>
+              <p>Debido a su densidad poblacional y conexiones internas, las <a href="https://www.inegi.org.mx/app/biblioteca/ficha.html?upc=702825006792" target="_blank">zonas metropolitanas</a> son las regiones donde el COVID-19 puede avanzar con mayor facilidad, y cada una de estas regiones tiene una epidemia con características propias.</p> <p>Esta gráfica muestra el número de casos que mostraron síntomas en cada fecha para las nueve zonas metropolitanas más afectadas de México (excluyendo al <a href="../../municipios#vm_casos">Valle de México</a>).</p> <p>Cada zona metropolitana ha seguido su propia trayectoria. En Baja California, tanto Mexicali como Tijuana parecen haber superado el punto más crítico (consistente con la <a href="../../estados#r_efectiva">R efectiva</a>). En Culiacán el número de nuevos casos parece estabilizarse sin descender. Monterrey y Puebla han mostrado rebrotes importantes, mientras que Cancún, Mérida, Veracruz y Villahermosa siguen en fase de crecimiento.</p>
             </p>
               
           </div>
